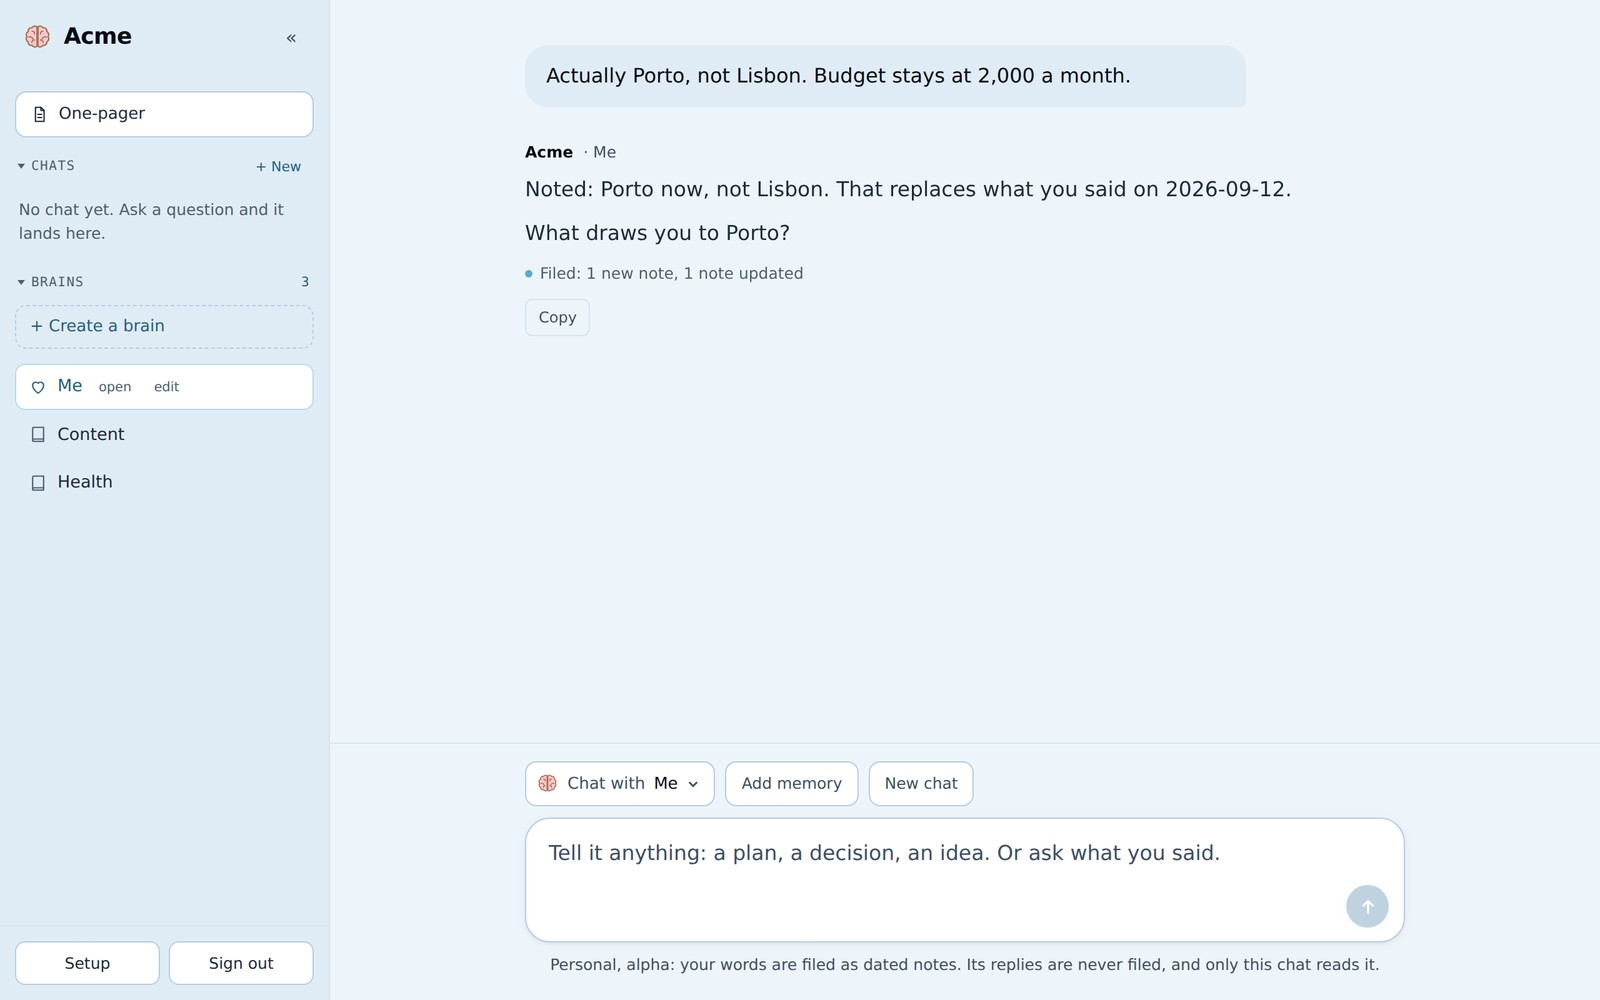
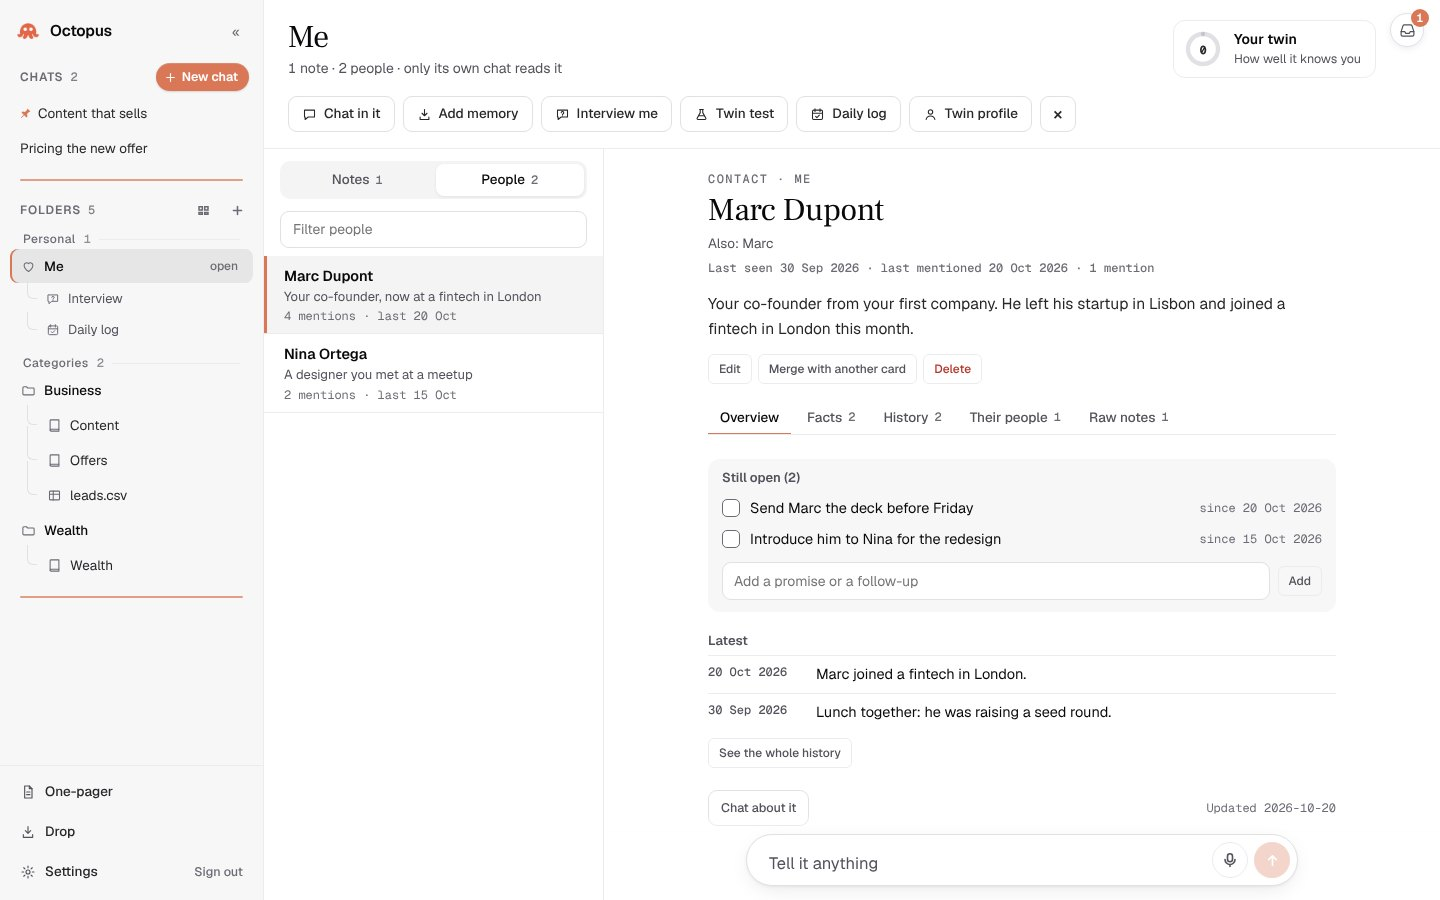
README redone around public folders; folder, not brain; fresh captures only
- The README opens on the new home page: The smartest knowledge, in an MCP,
  then Two ways in (a public folder by MCP, or your own workspace), and a
  comparison with passage search.
- Every mention of brain is now folder, in the README and on the landing page.
- The screenshots are new captures of the current pages, on sample data: the
  home page, an answer, a folder open, the review panel and a person's card.
  The old images are gone.

Claude-Session: https://claude.ai/code/session_01NRWPtT3uQhafrf1yBXPVRY

diff --git a/app/index.html b/app/index.html
@@ -4,10 +4,10 @@
 <meta charset="utf-8">
 <meta name="viewport" content="width=device-width, initial-scale=1, viewport-fit=cover">
 <title>Tasu: the smartest knowledge, in an MCP</title>
-<meta name="description" content="Public brains compiled from the talks, essays and posts of founders and investors, each idea dated and cited. Add one to your AI in one line.">
+<meta name="description" content="Public folders compiled from the talks, essays and posts of founders and investors, each idea dated and cited. Add one to your AI in one line.">
 <meta name="theme-color" content="#fafafa">
 <meta property="og:title" content="Tasu: the smartest knowledge, in an MCP">
-<meta property="og:description" content="Public brains compiled from the talks, essays and posts of founders and investors, each idea dated and cited. Add one to your AI in one line.">
+<meta property="og:description" content="Public folders compiled from the talks, essays and posts of founders and investors, each idea dated and cited. Add one to your AI in one line.">
 <meta property="og:image" content="https://tasu.ai/og.jpg?v=2">
 <meta property="og:image:width" content="1280">
 <meta property="og:image:height" content="640">
@@ -27,7 +27,7 @@
   /* ======================================================================
      TASU
 
-     The public brains. A bar with one way in, a serif headline over the
+     The public folders. A bar with one way in, a serif headline over the
      pencil landscape, a search field, then the folders their owners made
      public, each with the line that adds it to an AI. Greys on near-white,
      one dark button.
@@ -90,7 +90,7 @@
   .find input::placeholder{ color:var(--hint); }
   .find kbd{ font:500 12px/1 var(--mono); color:var(--hint); border:1px solid var(--line); border-radius:6px; padding:4px 7px; }
 
-  /* ---- the public brains ---- */
+  /* ---- the public folders ---- */
   .list{ position:relative; z-index:1; max-width:880px; margin:0 auto; padding:0 20px 24px; }
   .tools{ display:flex; flex-wrap:wrap; align-items:center; gap:8px 6px; padding:20px 0 12px; border-bottom:1px solid var(--line); }
   .cats{ display:flex; flex-wrap:wrap; gap:6px; }
@@ -192,17 +192,17 @@
     <div class="bg" aria-hidden="true"></div>
     <div class="in-hero">
       <h1 class="rise">The smartest knowledge, in an MCP.</h1>
-      <p class="sub rise" style="--d:80">Public brains compiled from the talks, essays and posts of founders and investors. Each idea holds one position, dated and cited. Add one to your AI in one line.</p>
+      <p class="sub rise" style="--d:80">Public folders compiled from the talks, essays and posts of founders and investors. Each idea holds one position, dated and cited. Add one to your AI in one line.</p>
       <p class="works rise" style="--d:140">Works in Claude, ChatGPT and Cursor</p>
       <label class="find rise" style="--d:200" for="q">
         <svg viewBox="0 0 24 24" aria-hidden="true"><circle cx="11" cy="11" r="6.5"/><path d="m20 20-4.2-4.2"/></svg>
-        <input id="q" type="search" placeholder="Find a brain or a topic: try pricing" autocomplete="off">
+        <input id="q" type="search" placeholder="Find a folder or a topic: try pricing" autocomplete="off">
         <kbd>/</kbd>
       </label>
     </div>
   </section>
 
-  <section class="list" aria-label="Public brains">
+  <section class="list" aria-label="Public folders">
     <div class="tools">
       <div class="cats" id="cats" role="group" aria-label="Categories"></div>
       <label class="sort" for="sort">Sort
@@ -213,8 +213,8 @@
     <div id="rows"><div class="skel"></div><div class="skel"></div></div>
   </section>
 
-  <section class="own" aria-label="Your own brain">
-    <div><h2>Your own brain</h2><p>Drop the sources you trust into a private workspace. Make any folder public, and it gets its own line here.</p>
+  <section class="own" aria-label="Your own folders">
+    <div><h2>Your own folders</h2><p>Drop the sources you trust into a private workspace. Make any folder public, and it gets its own line here.</p>
       <a class="open" href="/chat" style="margin-left:0">Open a workspace</a></div>
   </section>
   <p class="say" id="say" role="status"></p>
@@ -223,7 +223,7 @@
     <button type="button" id="demoGo">Try the demo</button>
     <button type="button" id="makeOpen">Make your own workspace</button>
     <a href="https://github.com/jlasne/brain">Open source</a>
-    <span class="fine">Public brains are compiled from public content and every answer cites its source. A brain named after a person is unofficial.</span>
+    <span class="fine">Public folders are compiled from public content and every answer cites its source. A folder named after a person is unofficial.</span>
   </p>
 </main>
 
@@ -243,7 +243,7 @@
 
 <script>
   /**
-   * The landing: the public brains.
+   * The landing: the public folders.
    *
    * The folders their owners made public, read live, each with the address
    * that adds it to an AI. Open a workspace goes to the app, which asks for a
@@ -275,7 +275,7 @@
   };
   const say = (t, bad) => { $("say").textContent = t; $("say").classList.toggle("bad", !!bad); };
 
-  /* ---- the public brains ---- */
+  /* ---- the public folders ---- */
   const PERSON = '<svg viewBox="0 0 24 24"><circle cx="12" cy="8" r="3.5"/><path d="M5 20c.8-3.6 3.6-5.5 7-5.5s6.2 1.9 7 5.5"/></svg>';
   const BOOK = '<svg viewBox="0 0 24 24"><path d="M5 4.5h10.5a3 3 0 0 1 3 3V20H8a3 3 0 0 1-3-3z"/><path d="M5 17a3 3 0 0 1 3-3h10.5"/></svg>';
   const addressOf = slug => `${location.origin}/mcp/v1?b=${encodeURIComponent(slug)}`;
@@ -305,10 +305,10 @@
     const list = brains.filter(b => (cat === "all" || b.group === cat) && (!q || `${b.name} ${b.scope} ${b.group}`.toLowerCase().includes(q)))
       .sort((a, b) => by === "az" ? a.name.localeCompare(b.name) : by === "sources" ? b.sources - a.sources || a.name.localeCompare(b.name)
         : by === "fed" ? String(b.fed).localeCompare(String(a.fed)) : b.concepts - a.concepts || a.name.localeCompare(b.name));
-    $("count").textContent = brains.length ? `${list.length} public brain${list.length === 1 ? "" : "s"}` : "";
+    $("count").textContent = brains.length ? `${list.length} public folder${list.length === 1 ? "" : "s"}` : "";
     const host = $("rows"); host.innerHTML = "";
-    if (!brains.length){ host.innerHTML = '<p class="note">No brain is public yet. Open a workspace and make one of your folders public.</p>'; return; }
-    if (!list.length){ host.innerHTML = '<p class="note">No public brain holds that yet.</p>'; return; }
+    if (!brains.length){ host.innerHTML = '<p class="note">No folder is public yet. Open a workspace and make one of yours public.</p>'; return; }
+    if (!list.length){ host.innerHTML = '<p class="note">No public folder holds that yet.</p>'; return; }
     for (const b of list){
       const url = addressOf(b.slug);
       const row = document.createElement("div"); row.className = "row"; row.dataset.slug = b.slug;
@@ -336,7 +336,7 @@
   $("sort").addEventListener("change", paint);
   document.addEventListener("keydown", e => { if (e.key === "/" && document.activeElement !== $("q") && !$("make").open){ e.preventDefault(); $("q").focus(); } });
   post("/api/public").then(r => { brains = Array.isArray(r.brains) ? r.brains : []; paintCats(); paint(); })
-    .catch(e => { $("rows").innerHTML = ""; const p = document.createElement("p"); p.className = "note"; p.textContent = `The public brains did not load: ${e.message}`; $("rows").append(p); });
+    .catch(e => { $("rows").innerHTML = ""; const p = document.createElement("p"); p.className = "note"; p.textContent = `The public folders did not load: ${e.message}`; $("rows").append(p); });
 
   /* ---- the demo, and a workspace of your own ---- */
   let demoOpen = true;

diff --git a/README.md b/README.md
@@ -4,36 +4,47 @@
 
 # Tasu
 
-**Your knowledge and your files, in one chat.**
+**The smartest knowledge, in an MCP.**
 
-Folders learn from what you drop. Assets keep your docs and tables. Call any with @, and every answer cites it.
+Folders compiled from the talks, essays and posts you trust. Each idea holds one position, dated and cited.
+Add a public folder to your AI in one line, or open a workspace for your own.
 
 [**Open tasu.ai**](https://tasu.ai) &nbsp;·&nbsp; [Read the white paper](https://tasu.ai/about) &nbsp;·&nbsp; [Run your own](#run-your-own)
 
 <img alt="2025 checks passing" src="https://img.shields.io/badge/checks-2025%20passing-52525b?style=flat-square&labelColor=18181b">
-<img alt="Live demo, no sign-up" src="https://img.shields.io/badge/demo-no%20sign--up-52525b?style=flat-square&labelColor=18181b">
+<img alt="Works in Claude, ChatGPT and Cursor" src="https://img.shields.io/badge/MCP-Claude%20·%20ChatGPT%20·%20Cursor-52525b?style=flat-square&labelColor=18181b">
 <img alt="Installs on phone and desktop" src="https://img.shields.io/badge/app-phone%20and%20desktop-52525b?style=flat-square&labelColor=18181b">
 <img alt="MIT license" src="https://img.shields.io/badge/license-MIT-52525b?style=flat-square&labelColor=18181b">
 
 <br><br>
 
-<img src="docs/img/landing.jpg" alt="The Tasu landing page: knowledge, assets and personal, one passphrase field over a pencil landscape" width="100%">
+<img src="docs/img/landing.jpg" alt="The Tasu home page: the public folders, each with its MCP address, under the headline The smartest knowledge, in an MCP" width="100%">
 
 </div>
 
 <br>
 
-[What it does](#what-it-does) · [Why it holds up](#why-it-holds-up) · [Compared](#compared) · [Inside the app](#inside-the-app) · [Personal folder](#the-personal-folder-alpha) · [Assets](#assets) · [Workspaces](#workspaces) · [Run your own](#run-your-own) · [Work on it](#work-on-it)
+[Two ways in](#two-ways-in) · [What it does](#what-it-does) · [Why it holds up](#why-it-holds-up) · [Compared](#compared) · [Inside the app](#inside-the-app) · [Personal folder](#the-personal-folder-alpha) · [Assets](#assets) · [Workspaces](#workspaces) · [Run your own](#run-your-own) · [Work on it](#work-on-it)
+
+## Two ways in
+
+| | A public folder | Your own workspace |
+|---|---|---|
+| What it is | A folder its owner made public, such as Hormozi or Y Combinator | Your folders, assets and personal folder, private |
+| How you use it | Copy its MCP address from tasu.ai into Claude, ChatGPT or Cursor | Open a workspace with its passphrase, on the web or as an app |
+| What you get | Answers from its positions, each claim with its author and date | Everything below: drop, ask, assets, your people, your twin |
+| What it costs | Nothing: your own AI does the thinking | The model calls, on your OpenRouter key |
+| Who feeds it | Its owner only | You |
 
 ## What it does
-
-<img src="docs/img/goods.jpg" alt="Drop and Ask, and why it holds up" width="100%">
 
 **Drop.** A link, a PDF, a Word file, a video or a transcript. Each idea is filed under a concept with its numbers, signed with author and date. A claim that clashes with what you hold waits for your call.
 
 **Ask.** Ask anything, at 3 levels: the answer, a lesson from zero, or guided steps. It answers from your sources only, and the last line names who said it and when.
 
 **Use.** Assets keep your docs, tables and pages. A chat reads them, and proposes changes you apply in one click.
+
+**Share.** Make a folder public, and anyone adds it to their AI with its own address. It reads only; you alone feed it.
 
 Drop compiles each source once. Ask reads what was compiled. The [white paper](https://tasu.ai/about) walks through both, step by step.
 
@@ -42,41 +53,46 @@ Drop compiles each source once. Ask reads what was compiled. The [white paper](h
 | | |
 |---|---|
 | **Zero duplicates** | A source dropped twice is caught on arrival. A new idea joins the concept it belongs to. |
-| **Zero hidden contradictions** | Every clash is caught at drop and waits for your call, one swipe each. Each concept keeps one position. |
+| **Zero hidden contradictions** | Every clash is caught at drop and waits for your call. Each concept keeps one position. |
+| **Linked ideas** | Each idea links to its nearest by meaning: needs, causes, supports, contradicts. A why or how question follows the links 2 steps. |
 | **Light** | It keeps the claims and drops the raw transcript. Search reads a 1 KB card per concept. |
-| **Fast search** | The router reads the 120 titles nearest in meaning, then opens 30 concepts at most. 1,000 concepts cost it 1,750 tokens, down from 12,700. |
 | **Flat cost** | A question reads 69,000 characters at most, at any size. A thank-you reads none. |
 | **Your data** | In your own database or as markdown files. Exported in one click, restored in one. Open source, on your own key. |
 
 ## Compared
 
-A classic AI chat answers from its training data. Karpathy's LLM wiki compiles your files into pages. Tasu compiles them into **positions**, each backed by dated evidence you can open, and asks you when two sources clash.
+Most AI tools search your files for the closest passages. Tasu reads each source once and compiles it into **positions**, each backed by dated evidence, and asks you when two sources clash.
 
-| | Classic AI chat | Karpathy's LLM wiki | **Tasu** |
+| | Classic AI chat | Passage search (a chat over your files) | **Tasu** |
 |---|---|---|---|
-| Answers from | Its training data | Your files, as pages | **Your sources, as positions with their evidence** |
-| Proof | None, or a link it made up | A summary per page | **Author and date on every claim** |
-| When sources disagree | Blended into one answer | Left side by side | **Flagged at each drop; you rule in a swipe** |
-| New information | Frozen at the training date | Added when you run the agent | **Filed the day you drop it** |
-| Whose view | An average of the internet | Your topics | **One folder per subject, per expert, or for you** |
-| Setup | A chat box | Scripts, Obsidian, a coding agent | **A web page, or an app on phone and desktop** |
-| What you get | A reply | Pages, slides, charts | **Answers at 3 levels, one-pagers in 9 languages, clashes to rule on** |
+| Answers from | Its training data | 4 to 6 pieces of your files | **Positions merged from up to 20 sources** |
+| Proof | None, or a link it made up | The piece it found | **Author and date on every claim** |
+| When sources disagree | Blended into one answer | Both pieces, unflagged | **Flagged at each drop; you rule** |
+| Tables | Pasted as text | Read as text pieces | **Totals over every row, up to 40,000** |
+| In your own AI | No | Inside its own app | **Any public folder, by MCP** |
+| What you get | A reply | A reply | **Answers at 3 levels, one-pagers in 9 languages, clashes to rule on** |
 
 ## Inside the app
 
 <table>
 <tr>
-<td width="33%" valign="top">
-<img src="docs/img/demo.jpg" alt="An answer with its sources">
-<br><b>Answers with receipts.</b> Every line comes from a source you fed it. The sources line names each author and date. Newer evidence wins on the same question.
+<td width="50%" valign="top">
+<img src="docs/img/answer.jpg" alt="An answer laid out in headings and bullets, with its sources line">
+<br><b>Answers with receipts.</b> Every line comes from a source you fed it. The sources line names each author and date.
 </td>
-<td width="33%" valign="top">
-<img src="docs/img/deck.jpg" alt="Settling a clash, one card at a time">
-<br><b>It argues back.</b> A source that contradicts what you hold waits for your call. Swipe: A holds, B holds, or both. The position is rewritten from all its evidence.
+<td width="50%" valign="top">
+<img src="docs/img/folder.jpg" alt="A folder open: its concepts on the left, one concept with its evidence, figures and links">
+<br><b>A folder, open.</b> Every concept with its position, dated evidence, figures and the ideas it links to.
 </td>
-<td width="33%" valign="top">
-<img src="docs/img/personal.jpg" alt="A personal folder filing what you say">
-<br><b>It learns you.</b> A personal folder files what you tell it as dated notes, and says what it filed. Your other folders never read it.
+</tr>
+<tr>
+<td width="50%" valign="top">
+<img src="docs/img/review.jpg" alt="A proposed change to a table, waiting in the review panel beside the chat">
+<br><b>Nothing changes without you.</b> Ask for a reply and a table change in one message. The reply is in the chat, the change waits in the panel.
+</td>
+<td width="50%" valign="top">
+<img src="docs/img/personal.jpg" alt="A person's card in the personal folder, with what is still open">
+<br><b>It learns your people.</b> One card per person: facts, history, and what is still open, ticked when done.
 </td>
 </tr>
 </table>
@@ -175,7 +191,7 @@ A workspace holds its own folders and chats, apart from every other.
 | | Octopus, Squidgy | The demo | Your own |
 |---|---|---|---|
 | Whose | The builder's, and someone's | Anyone's | Yours |
-| Enter | Its own page, or the passphrase alone on the landing | One click | Made on the landing, then the passphrase alone |
+| Enter | Open a workspace, then its passphrase | One click, under the list | Made from the landing, then its passphrase |
 | Model calls paid by | The deployment's key | A separate demo key | **Your OpenRouter key** |
 | Limits | None | 30 drops and 300 questions a month, shared | Your key's own |
 | New folders, personal folders | Yes | No | Yes |
@@ -220,7 +236,7 @@ Point `window.OCTOPUS_API` in the pages under `app/` at your deployment's `.conv
 | `DIGEST_TO` | Where the Monday digest goes: the week's sources, new concepts and open conflicts. |
 | `FEEDBACK_TO` | Where Send feedback mails an error. Unset, it goes to `DIGEST_TO`. |
 
-`admin:copyBrain '{"slug":"...","space":"demo"}'` adds one more folder to the demo. `digest:send '{"dry":true}'` previews the digest.
+`digest:send '{"dry":true}'` previews the digest.
 
 </details>
 
@@ -229,9 +245,11 @@ Point `window.OCTOPUS_API` in the pages under `app/` at your deployment's `.conv
 
 <br>
 
-**Connector.** In an owner's workspace, Settings gives an MCP address. Paste it into Claude, ChatGPT or any MCP client: it reads and feeds that workspace's folders, and the client's own model does the thinking. `/doc` has the steps.
+**A public folder.** Its line on tasu.ai gives its address, `tasu.ai/mcp/v1?b=<folder>`. Paste it into Claude, ChatGPT or any MCP client: it reads that folder only, and the client's own model does the thinking.
 
-**Claude Code.** Copy `skill/brain/` into `~/.claude/skills/brain/`. The folders are then plain markdown files under `brains/`, following [the 41 rules](docs/PROTOCOL.md).
+**Your workspace.** Settings gives an MCP address carrying your key. It reads and feeds that workspace's folders. `/doc` has the steps.
+
+**Claude Code.** Copy the skill folder under `skill/` into `~/.claude/skills/`. The folders are then plain markdown files, following [the 41 rules](docs/PROTOCOL.md).
 
 </details>
 
@@ -268,11 +286,11 @@ web/chat/       the app's source: page.html, 10 stylesheets and 21 scripts, one 
 convex/         the server: routes, store, drop, one-pager, conflicts, personal, assets
 scripts/        the build and the checks, the app driven in a real browser included
 docs/           the 41 rules (PROTOCOL.md), the server build (SERVER.md), the screenshots
-skill/brain/    the same behaviour, as a Claude Code skill
+skill/          the same behaviour, as a Claude Code skill
 templates/      the markdown shape of a folder
 ```
 
-`npm run check` runs 2025 checks: the build matches its source, the pages parse and bind, the install manifest and its icons, the Claude connector, the store and its workspaces, one-pagers, asking, linking, the personal folder, assets, and the app itself in a real browser at 9 screen sizes.
+`npm run check` runs 2025 checks: the build matches its source, the pages parse and bind, the install manifest and its icons, the MCP connector, the store and its workspaces, public folders, one-pagers, asking, linking, the personal folder, assets, and the app itself in a real browser at 9 screen sizes.
 
 <br>
 
